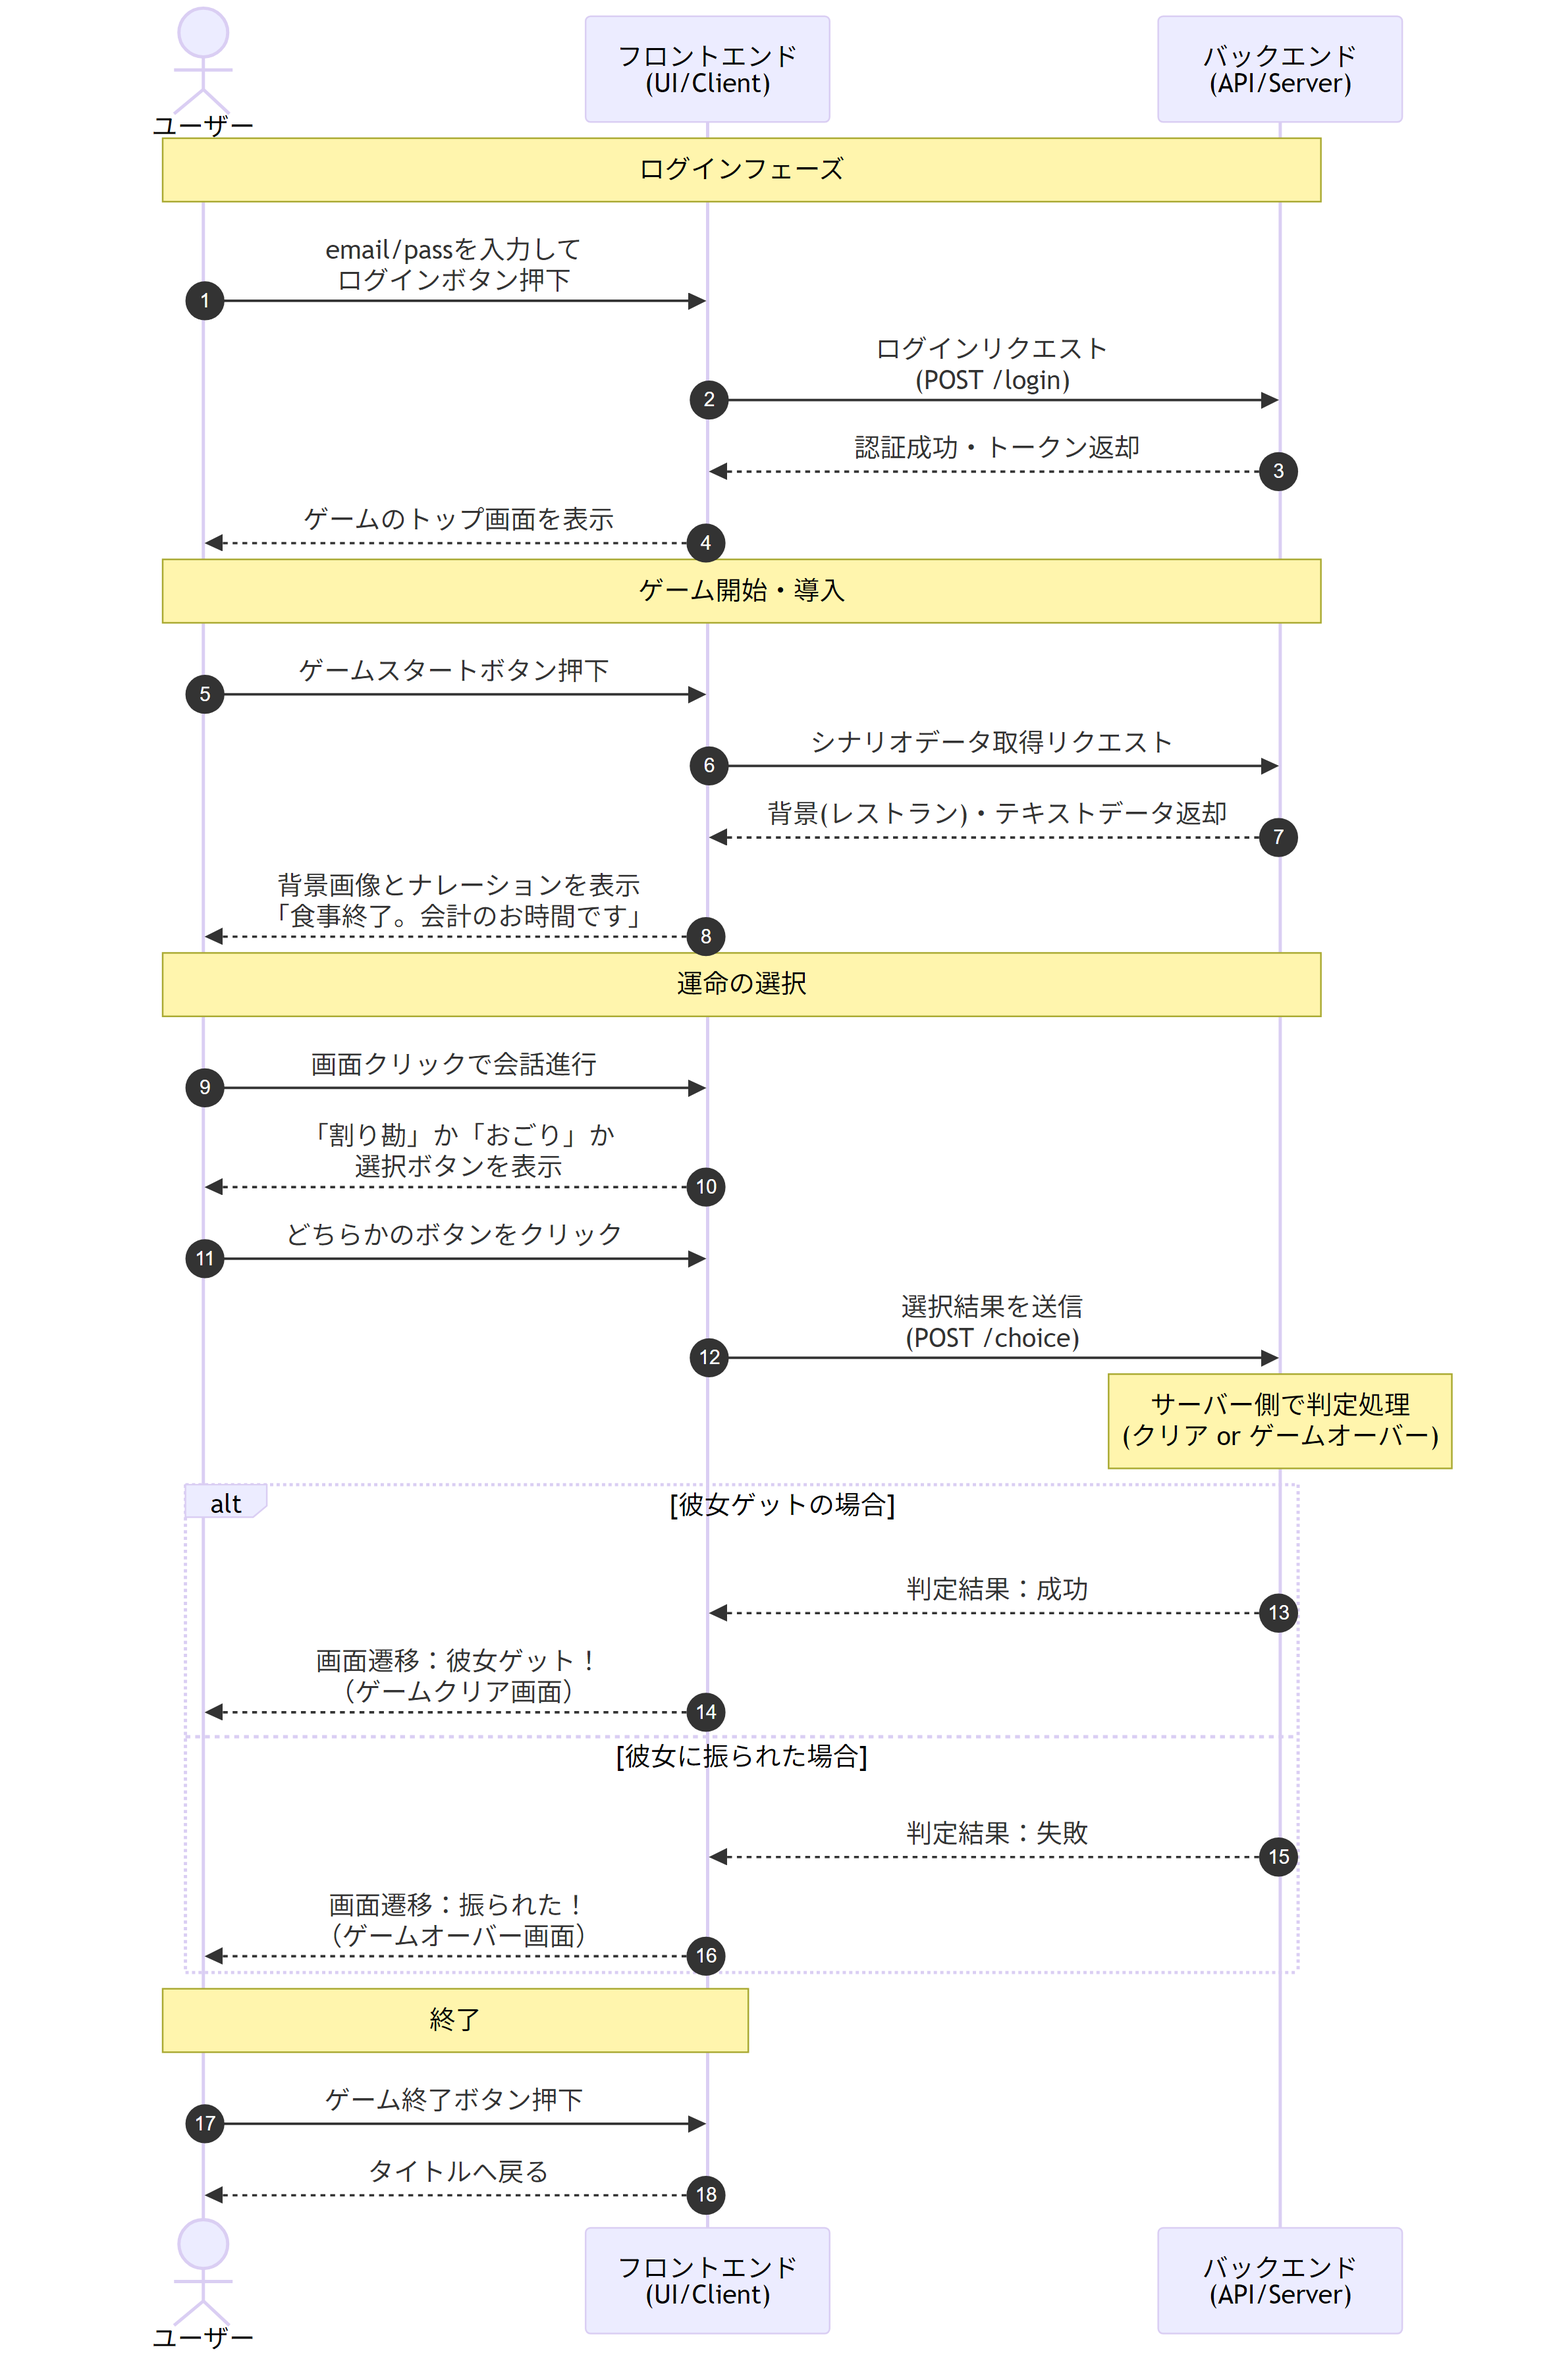
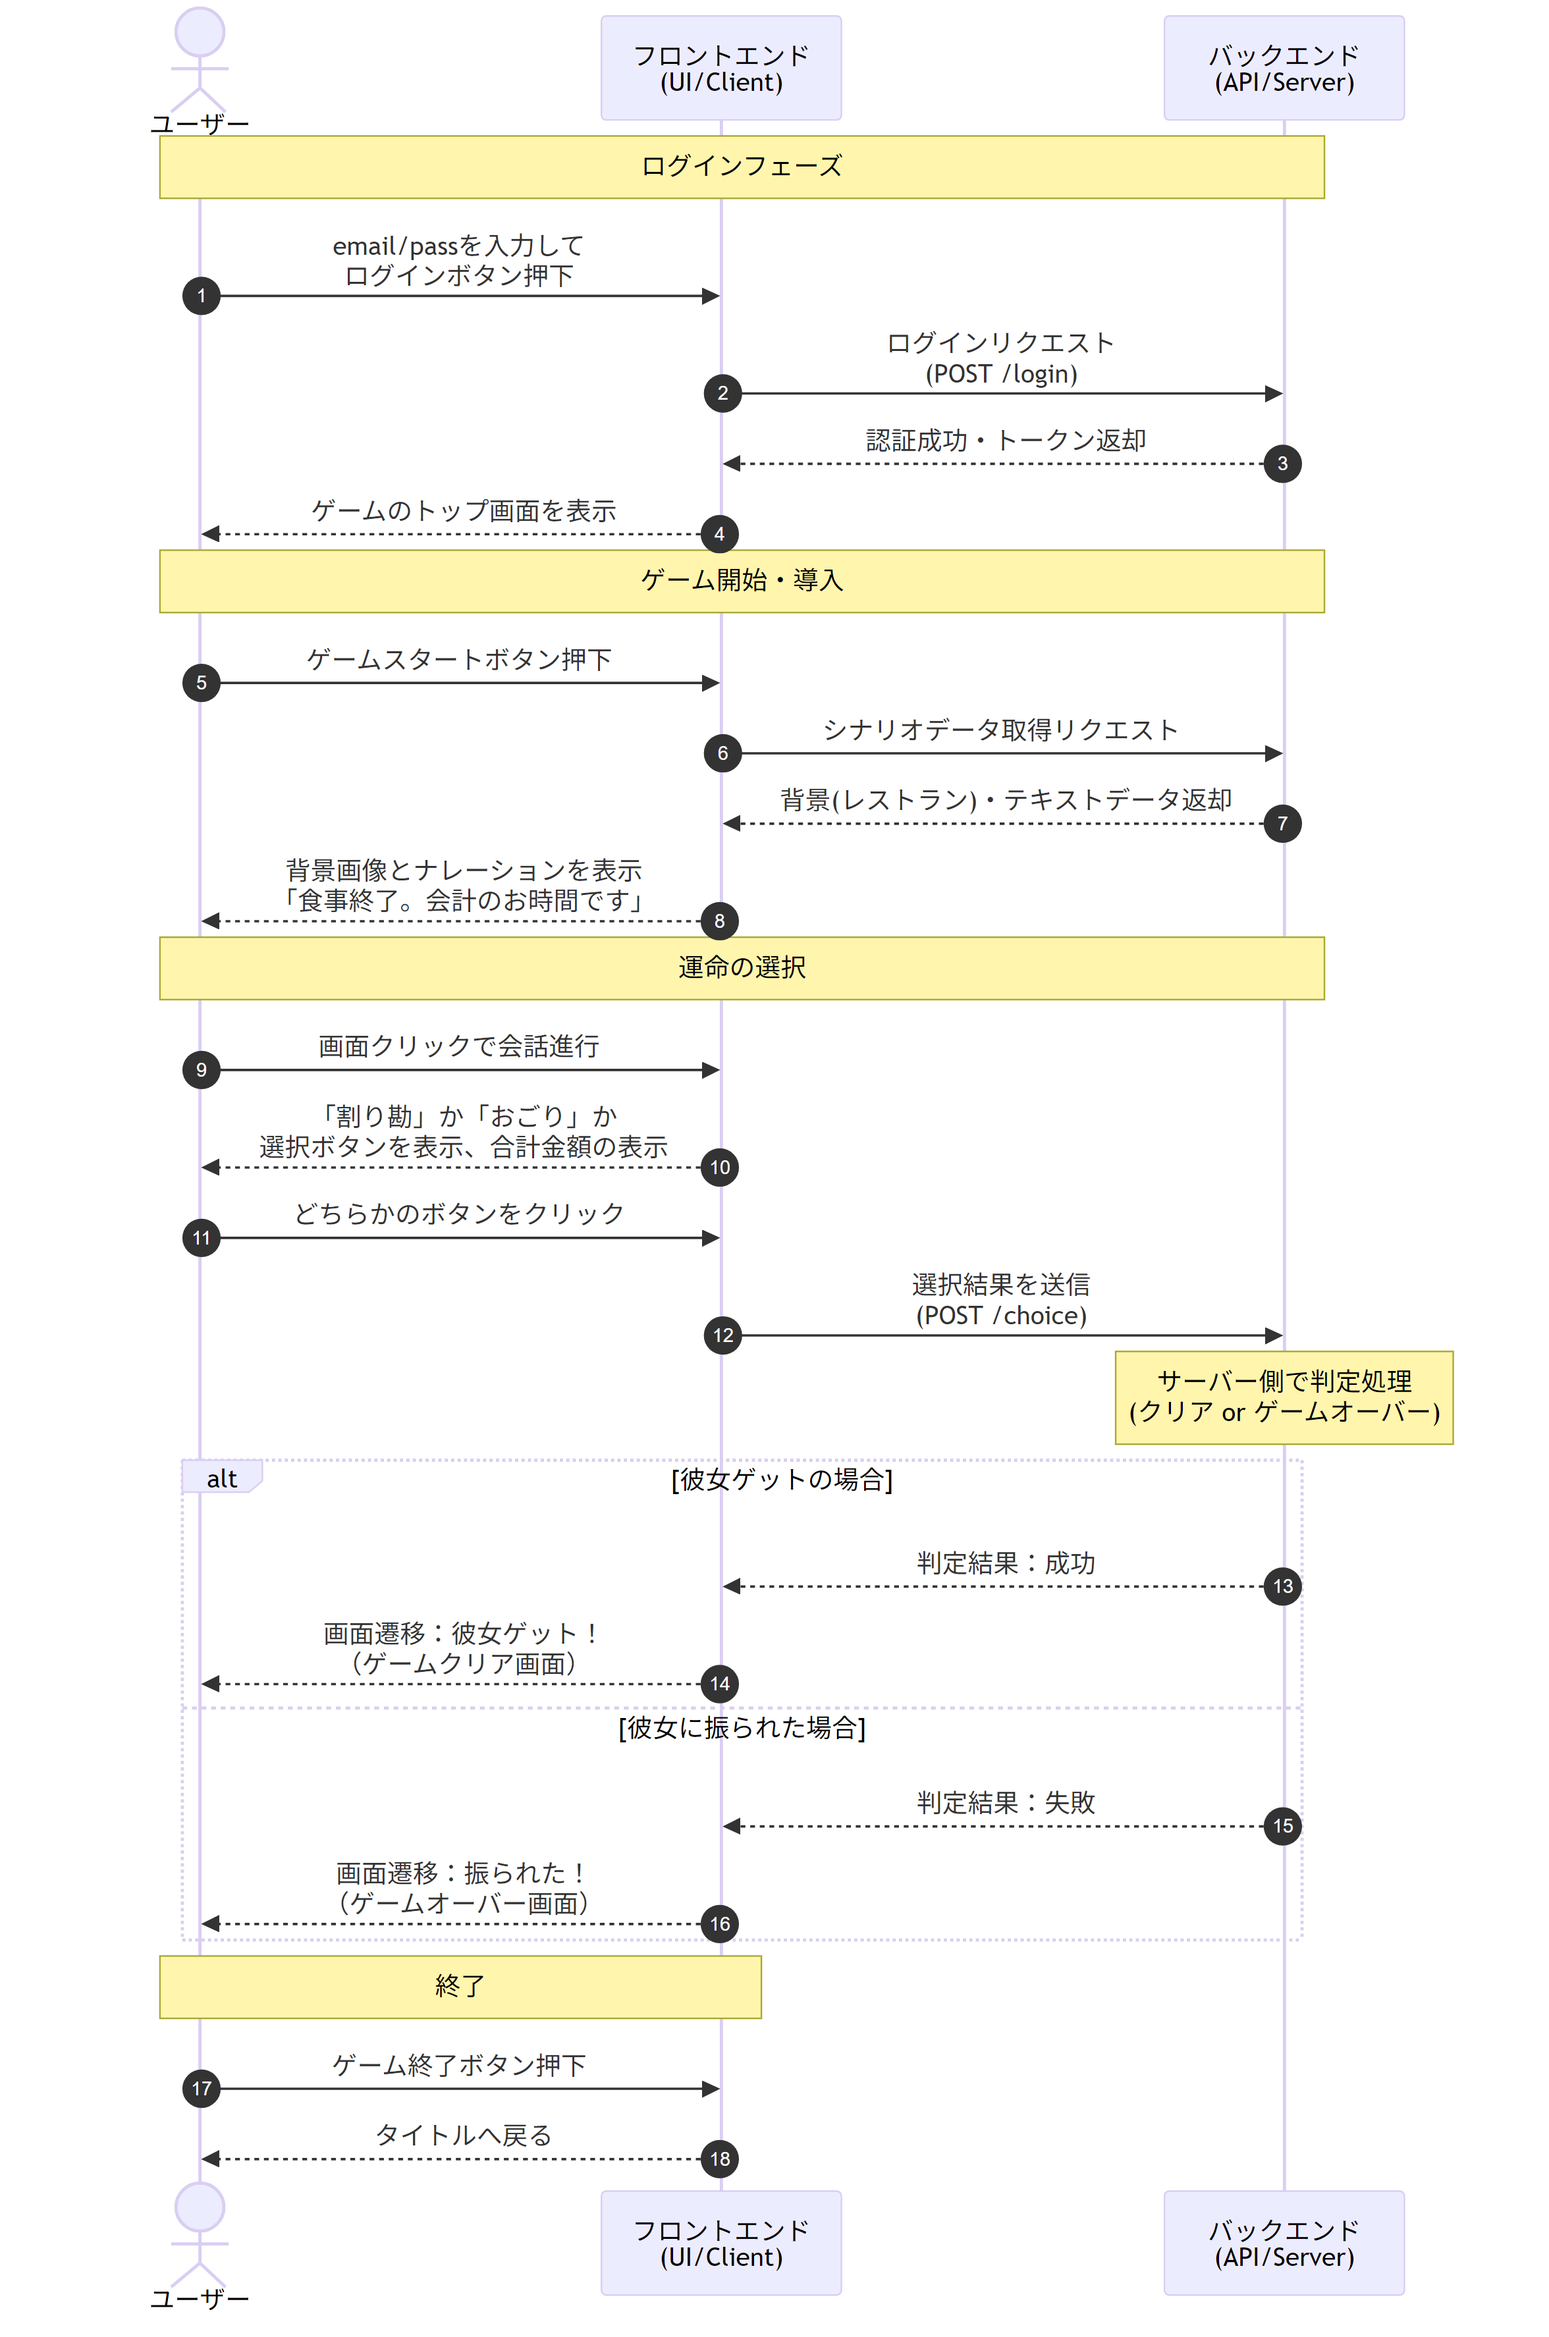
edit memaid file

diff --git a/docs/mermaid/gamemermaid.md b/docs/mermaid/gamemermaid.md
@@ -19,7 +19,7 @@ sequenceDiagram
 
     Note over User, BE: 運命の選択
     User->>FE: 画面クリックで会話進行
-    FE-->>User: 「割り勘」か「おごり」か<br/>選択ボタンを表示
+    FE-->>User: 「割り勘」か「おごり」か<br/>選択ボタンを表示、合計金額の表示
     User->>FE: どちらかのボタンをクリック
     FE->>BE: 選択結果を送信<br/>(POST /choice)
 
